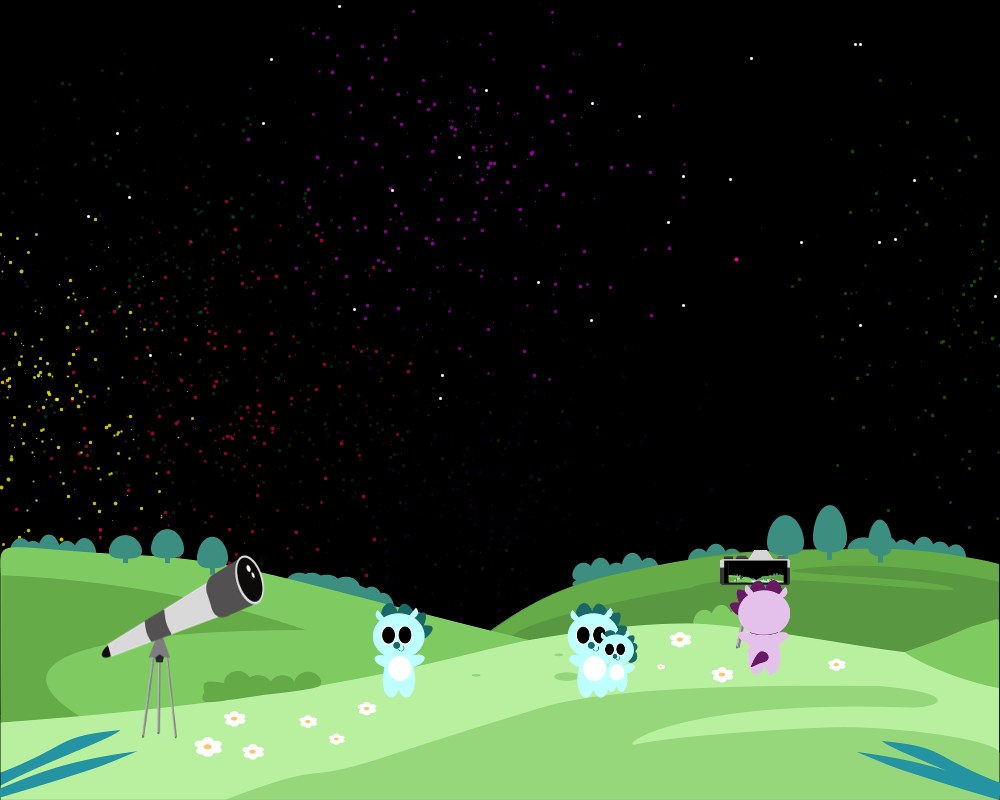
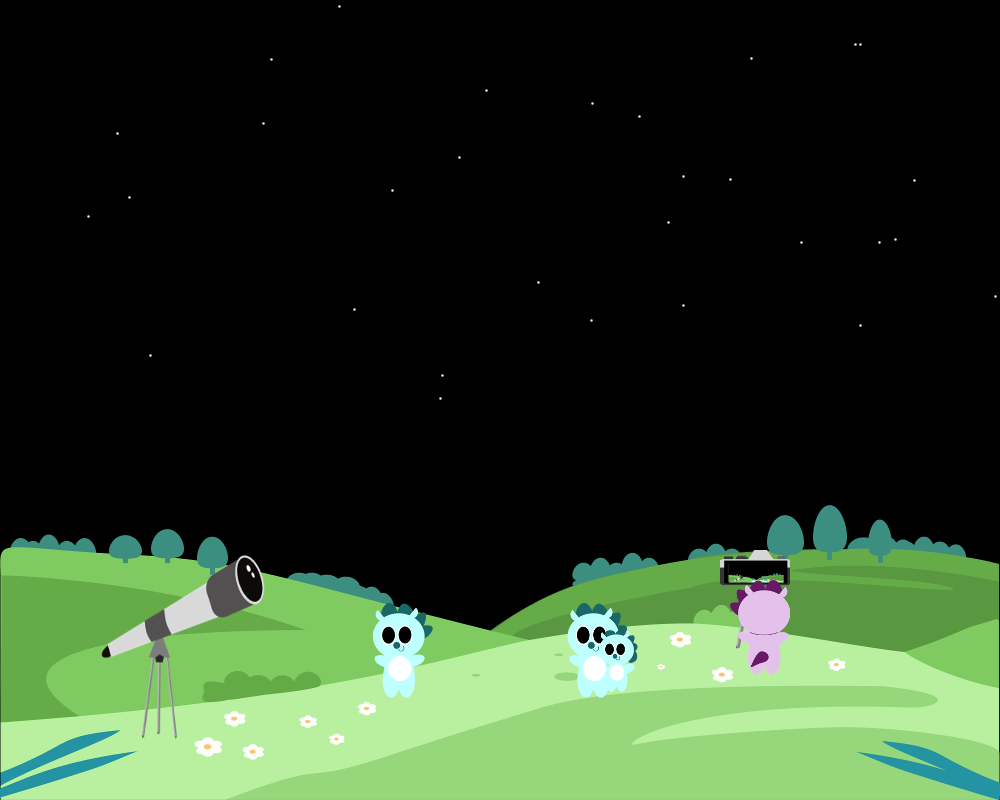
변경사항 Push

diff --git a/main/Page3.py b/main/Page3.py
@@ -15,7 +15,11 @@ class Page3:
         self.mangoneY = height / 2
         self.isWheelControl = False
         self.logoOpacity = 0
-
+        self.isStopFireworkLeft = False
+        self.isStopFireworkRight = False
+        self.isStopFireworkBottom = False
+        self.isStopFireworkTop = False
+        
         self.particleSystem1 = ParticleSystem(PVector(150, 350))
         self.particleSystem2 = ParticleSystem(PVector(800, 300))
         self.particleSystem3 = ParticleSystem(PVector(0, height+30))
@@ -32,14 +36,11 @@ class Page3:
         self.particleSystem14 = ParticleSystem(PVector(-30, 500))
         self.particleSystem15 = ParticleSystem(PVector(width+30, 300))
         self.particleSystem16 = ParticleSystem(PVector(width+30, 500))
-        
+    
     def render(self):
         # Draw stars
-        frameRate(30)
+        
         self.star.render()
-
-        # Draw fireworks
-        #self.makeFireWork()
     
         #for firework in self.fireworks[:]:
         #    isDone = firework.render()
@@ -56,76 +57,13 @@ class Page3:
         #self.particleSystem2.run(138,43,200)
         #self.particleSystem2.run(255,255,255)
         
-        self.particleSystem3.addParticle(PVector(random(0, 0.3), -0.8), PVector(random(-10, 10), random(0, 5)))
-        self.particleSystem3.addParticle(PVector(random(0, 0.3), -0.8), PVector(random(-10, 10), random(0, 5)))
-        self.particleSystem3.run(255,120,153)
-        self.particleSystem3.run(255,255,255)
         
-        self.particleSystem4.addParticle(PVector(random(-0.3, 0.3), -0.5), PVector(random(-10, 10), random(0, 5)))
-        self.particleSystem4.addParticle(PVector(random(-0.3, 0.3), -0.5), PVector(random(-10, 10), random(0, 5)))
-        self.particleSystem4.run(138,43,200)
-        self.particleSystem4.run(255,255,255)
+        self.runFireworkTop(self.isStopFireworkTop)
+        self.runFireworkBottom(self.isStopFireworkBottom)
+        self.runFireworkLeft(self.isStopFireworkLeft)
+        self.runFireworkRight(self.isStopFireworkRight)
         
-        self.particleSystem5.addParticle(PVector(random(-0.3, 0.3), -0.8), PVector(random(-10, 10), random(0, 5)))
-        self.particleSystem5.addParticle(PVector(random(-0.3, 0.3), -0.8), PVector(random(-10, 10), random(0, 5)))
-        self.particleSystem5.run(255,120,153)
-        self.particleSystem5.run(255,255,255)
-        
-        self.particleSystem6.addParticle(PVector(random(-0.3, 0.3), -0.5), PVector(random(-10, 10), random(0, 5)))
-        self.particleSystem6.addParticle(PVector(random(-0.3, 0.3), -0.5), PVector(random(-10, 10), random(0, 5)))
-        self.particleSystem6.run(138,43,200)
-        self.particleSystem6.run(255,255,255)
-        
-        self.particleSystem7.addParticle(PVector(random(-0.3, 0), -0.8), PVector(random(-10, 10), random(0, 5)))
-        self.particleSystem7.addParticle(PVector(random(-0.3, 0), -0.8), PVector(random(-10, 10), random(0, 5)))
-        self.particleSystem7.run(255,120,153)
-        self.particleSystem7.run(255,255,255)
-        
-        self.particleSystem8.addParticle(PVector(random(0, 0.3), 0.3), PVector(random(-10, 10), random(0, 5)))
-        self.particleSystem8.addParticle(PVector(random(0, 0.3), 0.3), PVector(random(-10, 10), random(0, 5)))
-        self.particleSystem8.run(255,120,153)
-        self.particleSystem8.run(255,255,255)
-        
-        self.particleSystem9.addParticle(PVector(random(-0.3, 0.3), 0.6), PVector(random(-10, 10), random(0, 5)))
-        self.particleSystem9.addParticle(PVector(random(-0.3, 0.3), 0.6), PVector(random(-10, 10), random(0, 5)))
-        self.particleSystem9.run(138,43,200)
-        self.particleSystem9.run(255,255,255)
-        
-        self.particleSystem10.addParticle(PVector(random(-0.3, 0.3), 0.3), PVector(random(-10, 10), random(0, 5)))
-        self.particleSystem10.addParticle(PVector(random(-0.3, 0.3), 0.3), PVector(random(-10, 10), random(0, 5)))
-        self.particleSystem10.run(255,120,153)
-        self.particleSystem10.run(255,255,255)
-        
-        self.particleSystem11.addParticle(PVector(random(-0.3, 0.3), 0.6), PVector(random(-10, 10), random(0, 5)))
-        self.particleSystem11.addParticle(PVector(random(-0.3, 0.3), 0.6), PVector(random(-10, 10), random(0, 5)))
-        self.particleSystem11.run(138,43,200)
-        self.particleSystem11.run(255,255,255)
-        
-        self.particleSystem12.addParticle(PVector(random(-0.3, 0), 0.3), PVector(random(-10, 10), random(0, 5)))
-        self.particleSystem12.addParticle(PVector(random(-0.3, 0), 0.3), PVector(random(-10, 10), random(0, 5)))
-        self.particleSystem12.run(255,120,153)
-        self.particleSystem12.run(255,255,255)
-        
-        self.particleSystem13.addParticle(PVector(0.3, random(-0.3, 0.3)), PVector(random(-10, 10), random(0, 5)))
-        self.particleSystem13.addParticle(PVector(0.3, random(-0.3, 0.3)), PVector(random(-10, 10), random(0, 5)))
-        self.particleSystem13.run(138,43,200)
-        self.particleSystem13.run(255,255,255)
-        
-        self.particleSystem14.addParticle(PVector(0.5, random(-0.3, 0.3)), PVector(random(-10, 10), random(0, 5)))
-        self.particleSystem14.addParticle(PVector(0.5, random(-0.3, 0.3)), PVector(random(-10, 10), random(0, 5)))
-        self.particleSystem14.run(138,43,200)
-        self.particleSystem14.run(255,255,255)
-        
-        self.particleSystem15.addParticle(PVector(-0.3, random(-0.3, 0.3)), PVector(random(-10, 10), random(0, 5)))
-        self.particleSystem15.addParticle(PVector(-0.3, random(-0.3, 0.3)), PVector(random(-10, 10), random(0, 5)))
-        self.particleSystem15.run(138,43,200)
-        self.particleSystem15.run(255,255,255)
-        
-        self.particleSystem16.addParticle(PVector(-0.5, random(-0.3, 0.3)), PVector(random(-10, 10), random(0, 5)))
-        self.particleSystem16.addParticle(PVector(-0.5, random(-0.3, 0.3)), PVector(random(-10, 10), random(0, 5)))
-        self.particleSystem16.run(138,43,200)
-        self.particleSystem16.run(255,255,255)
-        
+    
         tint(255,self.logoOpacity)
         self.logoImage.render()
         
@@ -142,13 +80,96 @@ class Page3:
     
     def decreseTint(self):
         if self.logoOpacity >=5: self.logoOpacity -= 5
-    
-    def makeFireWork(self):
-        if self.fireworksCnt <= 15:
-            if random(1) < 0.1:
-                self.fireworks.append(Firework(random(width), height, PVector(0, 0.2)))
-                self.fireworksCnt = self.fireworksCnt +1
+
+
+    def runFireworkBottom(self, isStop=False):
+        
+        particleSystems = [self.particleSystem3, self.particleSystem4, self.particleSystem5, self.particleSystem6, self.particleSystem7]
+        
+        if isStop:
+            for particleSystem in particleSystems:
+                particleSystem.stop()
+            return
+        
+        isLong = True
+        for particleSystem in particleSystems:
+            acc =  PVector(random(-0.3, 0.3), -0.8) if isLong else PVector(random(-0.3, 0.3), -0.5) 
+            vel = PVector(random(-10, 10), random(0, 5))
             
+            particleSystem.addParticle(acc.copy(), vel.copy())
+            particleSystem.addParticle(acc.copy(), vel.copy())
+            
+            if isLong:  particleSystem.run(255,120,153)
+            else :   particleSystem.run(138,43,200)
+            
+            particleSystem.run(255,255,255)
+            isLong = not isLong
+            
+    def runFireworkTop(self, isStop=False):
+        
+        particleSystems = [self.particleSystem8, self.particleSystem9, self.particleSystem10, self.particleSystem11, self.particleSystem12]
+        
+        if isStop:
+            for particleSystem in particleSystems:
+                particleSystem.stop()
+            return
+        
+        isLong = True
+        for particleSystem in particleSystems:
+            acc =  PVector(random(-0.3, 0.3), 0.6) if isLong else PVector(random(-0.3, 0.3), 0.3) 
+            vel = PVector(random(-10, 10), random(0, 5))
+            
+            particleSystem.addParticle(acc.copy(), vel.copy())
+            particleSystem.addParticle(acc.copy(), vel.copy())
+            
+            if isLong:  particleSystem.run(255,120,153)
+            else :   particleSystem.run(138,43,200)
+            
+            particleSystem.run(255,255,255)
+            isLong = not isLong
+        
+    def runFireworkLeft(self, isStop=False):
+        
+        particleSystems = [self.particleSystem13, self.particleSystem14]
+        
+        if isStop:
+            for particleSystem in particleSystems:
+                particleSystem.stop()
+            return
+        
+        isLong = False
+        for particleSystem in particleSystems:
+            acc =  PVector(0.5, random(-0.3, 0.3)) if isLong else PVector(0.3, random(-0.3, 0.3))
+            vel = PVector(random(-10, 10), random(0, 5))
+            
+            particleSystem.addParticle(acc.copy(), vel.copy())
+            particleSystem.addParticle(acc.copy(), vel.copy())
+            
+            particleSystem.run(138,43,200)
+            particleSystem.run(255,255,255)
+            isLong = not isLong
+        
+    def runFireworkRight(self, isStop=False):
+        
+        particleSystems = [self.particleSystem15, self.particleSystem16]
+        
+        if isStop:
+            for particleSystem in particleSystems:
+                particleSystem.stop()
+            return
+        
+        isLong = False
+        for particleSystem in particleSystems:
+            acc =  PVector(-0.5, random(-0.3, 0.3)) if isLong else PVector(-0.3, random(-0.3, 0.3))
+            vel = PVector(random(-10, 10), random(0, 5))
+            
+            particleSystem.addParticle(acc.copy(), vel.copy())
+            particleSystem.addParticle(acc.copy(), vel.copy())
+            
+            particleSystem.run(138,43,200)
+            particleSystem.run(255,255,255)
+            isLong = not isLong
+    
     def drawMangOne(self):
         rectMode(CENTER)
         fill(0)
@@ -183,15 +204,24 @@ class Page3:
     
     def keyPressed(self):
         if keyCode == ALT:
-            self.fireworks.append(Firework(random(width), height, PVector(0, 0.2)))
+            if self.isStopFireworkLeft and self.isStopFireworkRight and self.isStopFireworkTop and self.isStopFireworkBottom:
+                self.isStopFireworkTop, self.isStopFireworkBottom = False, False
+                self.isStopFireworkLeft, self.isStopFireworkRight = False, False
+                self.isWheelControl = True
+                self.logoOpacity = 255
+            else:
+                self.isStopFireworkTop, self.isStopFireworkBottom = True, True
+                self.isStopFireworkLeft, self.isStopFireworkRight = True, True
+                self.isWheelControl = True
+                self.logoOpacity = 0
         if keyCode == LEFT:
-            self.mangoneX -= 20
+            self.isStopFireworkLeft = not self.isStopFireworkLeft
         elif keyCode == RIGHT:
-            self.mangoneX += 20
+            self.isStopFireworkRight = not self.isStopFireworkRight
         elif keyCode == UP:
-            self.mangoneY -= 20
+            self.isStopFireworkTop = not self.isStopFireworkTop
         elif keyCode == DOWN:
-            self.mangoneY += 20
+            self.isStopFireworkBottom = not self.isStopFireworkBottom
 
     def mousePressed(self):
         pass

diff --git a/main/ParticleSystem.py b/main/ParticleSystem.py
@@ -4,21 +4,22 @@ class ParticleSystem:
     def __init__(self, position):
         self.origin = position.copy()
         self.particles = []
-        self.is_stop = False
+        self.isStop = False
 
     def addParticle(self, acc, vel):
-        if not self.is_stop:
+        if not self.isStop:
             self.particles.append(Particle(self.origin, acc, vel))
         
     def stop(self):
-        self.particles.pop()
-        self.is_stop = True
+        if len(self.particles) <> 0:
+            self.particles.pop()
+        self.isStop = True
 
     def run(self, r, g, b):
-        self.is_stop = False
+        self.isStop = False
         
         for i in range(len(self.particles) - 1, -1, -1):
             p = self.particles[i]
             p.run(r, g, b)
-            if p.is_dead():
+            if p.isDead():
                 self.particles.pop(i)

diff --git a/main/Page2.py b/main/Page2.py
@@ -106,6 +106,7 @@ class Page2:
             if keyCode == SHIFT:
                 if self.myMigyung.x >= 40 and self.myMigyung.x <= 120 and self.myMigyung.y == 620:
                     self.mangoneSoundFile.play()
+                    frameRate(30)
                     Page.next()
                 if self.myMigyung.x >= 700 and self.myMigyung.x <= 800 and self.myMigyung.y >= 520 and self.myMigyung.y <= 580:
                     saveFrame("./resource/capture.png")

diff --git a/main/Particle.py b/main/Particle.py
@@ -23,5 +23,5 @@ class Particle:
         fill(r, g, b, self.lifespan)
         ellipse(self.position.x, self.position.y, 8, 8)
 
-    def is_dead(self):
+    def isDead(self):
         return self.lifespan < 0.0
